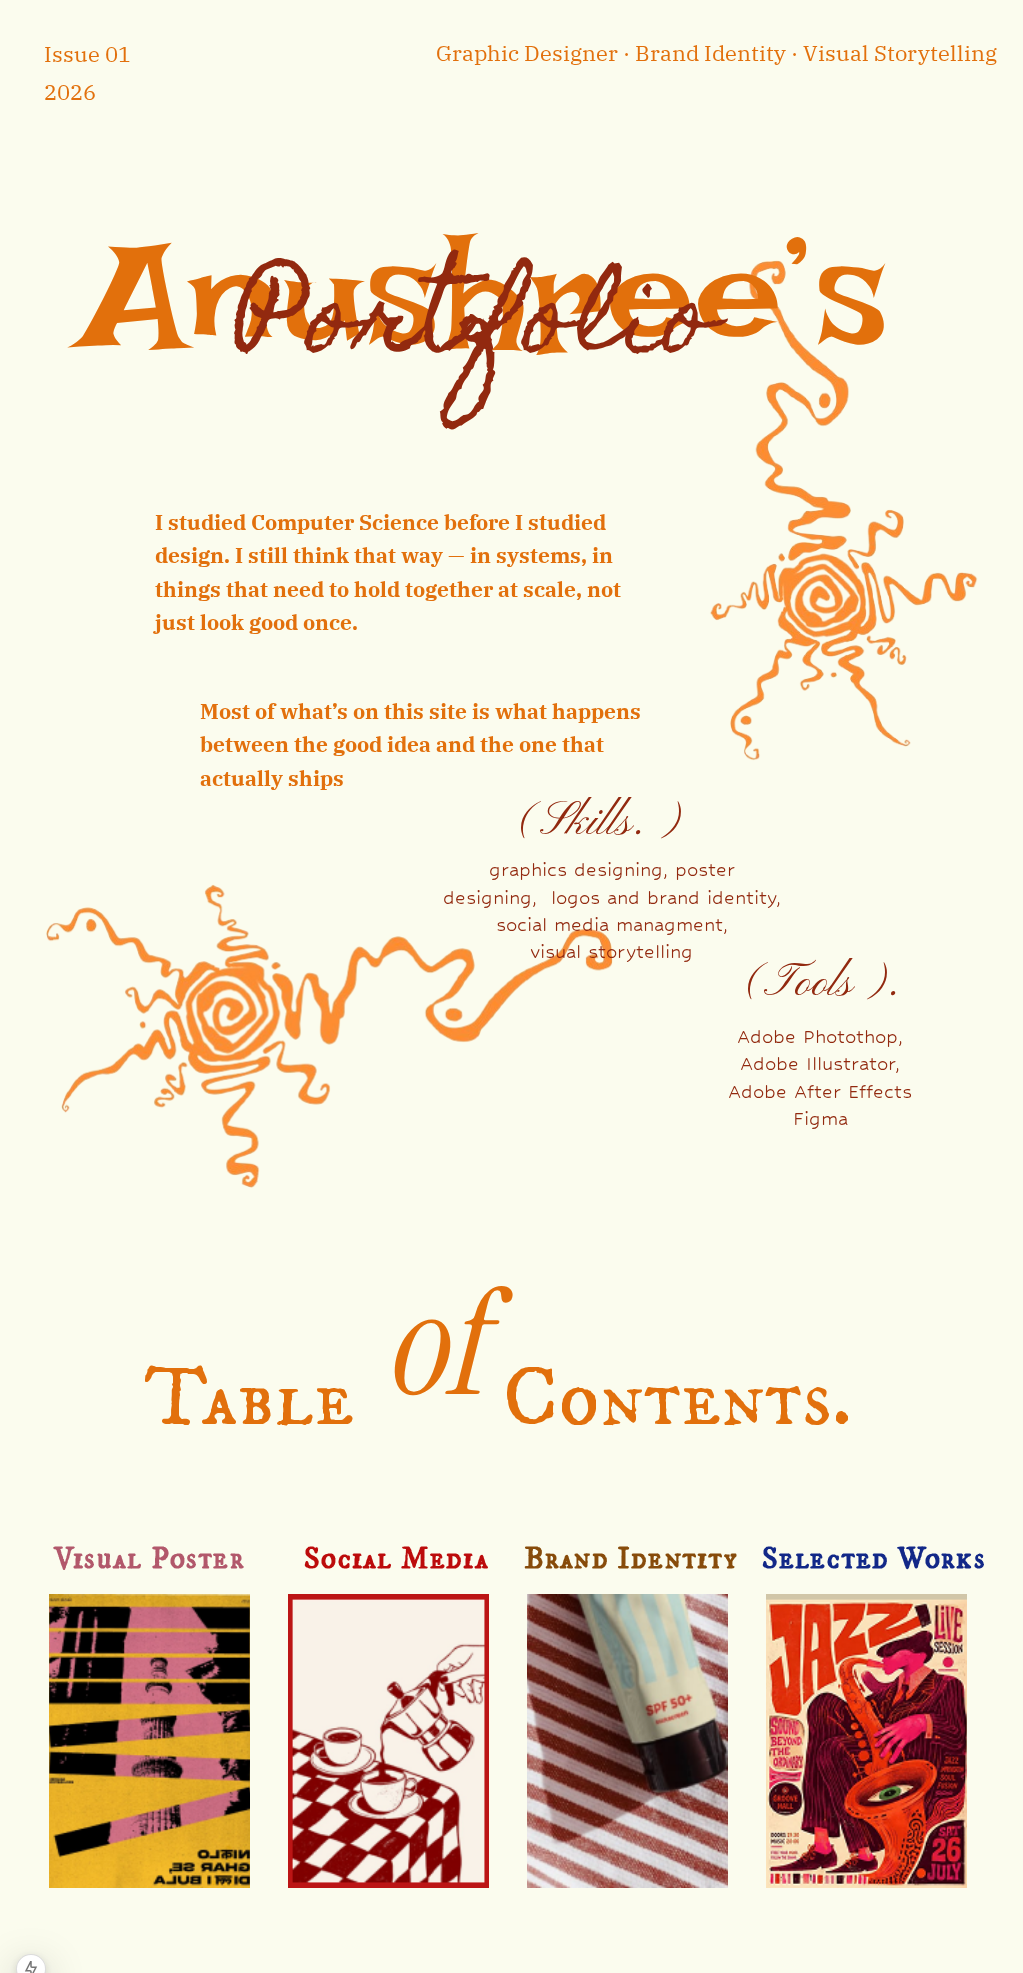
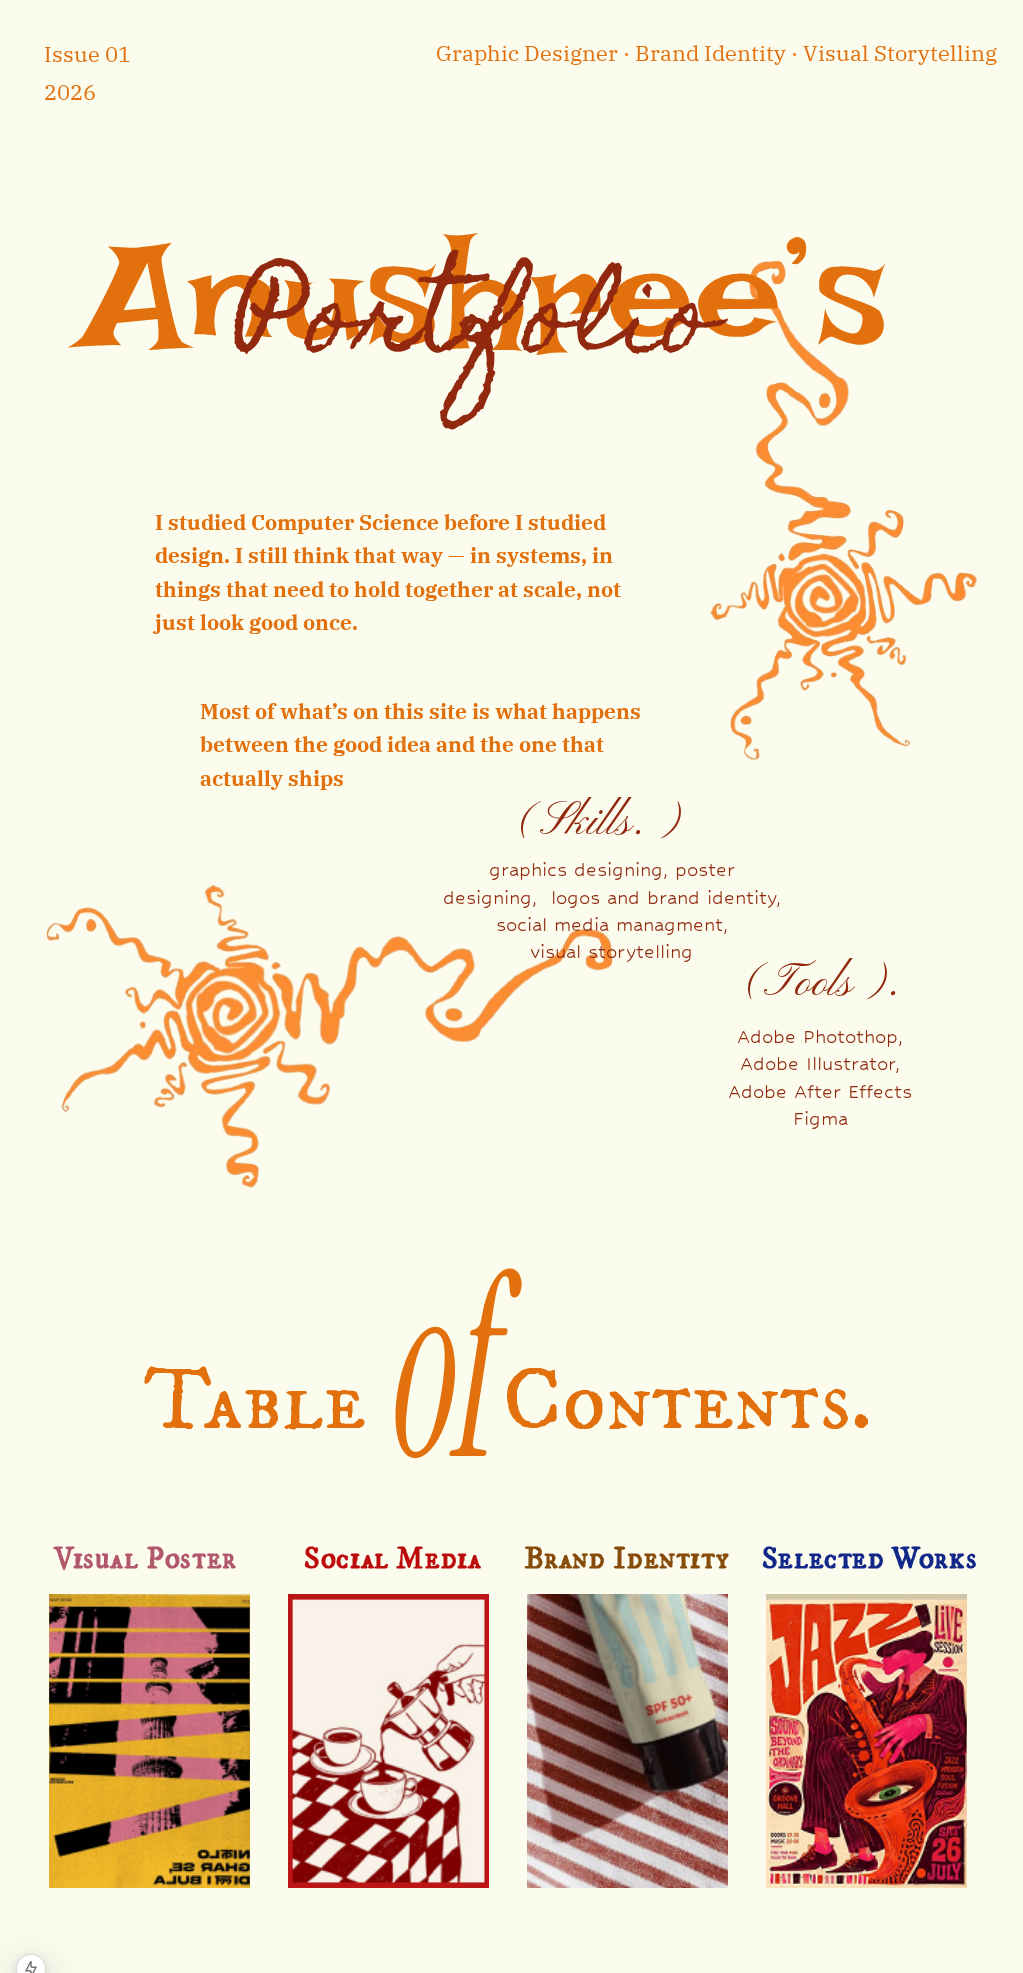
auto-commit for f0836c9c-beb4-4b0a-92a1-c226fecee20e

diff --git a/components/tableOfContents/TableOfContents.tsx b/components/tableOfContents/TableOfContents.tsx
@@ -99,7 +99,7 @@ export default function TableOfContents() {
             top: y(244.4),
             fontFamily: '"IM Fell DW Pica SC", "IM Fell DW Pica", serif',
             fontWeight: 400,
-            fontSize: pt(15),
+            fontSize: pt(16),
             lineHeight: 1,
             color: 'var(--portfolio-orange)',
             whiteSpace: 'nowrap',
@@ -113,14 +113,16 @@ export default function TableOfContents() {
           style={{
             position: 'absolute',
             left: pt(69),
-            top: y(229),
+            top: y(226),
             fontFamily: '"Instrument Serif", "IBM Plex Serif", serif',
             fontStyle: 'italic',
             fontWeight: 400,
-            fontSize: pt(26),
+            fontSize: pt(41),
             lineHeight: 1,
             color: 'var(--portfolio-orange)',
             whiteSpace: 'nowrap',
+            transform: 'scaleX(0.68) scaleY(1.1)',
+            transformOrigin: 'left center',
           }}
         >
           of
@@ -134,7 +136,7 @@ export default function TableOfContents() {
             top: y(244.4),
             fontFamily: '"IM Fell DW Pica SC", "IM Fell DW Pica", serif',
             fontWeight: 400,
-            fontSize: pt(15),
+            fontSize: pt(16),
             lineHeight: 1,
             color: 'var(--portfolio-orange)',
             whiteSpace: 'nowrap',
@@ -156,7 +158,7 @@ export default function TableOfContents() {
                 fontWeight: 700,
                 fontSize: pt(5.5),
                 lineHeight: 1,
-                letterSpacing: '0.04em',
+                letterSpacing: '0.02em',
                 color: c.color,
                 whiteSpace: 'nowrap',
               }}
